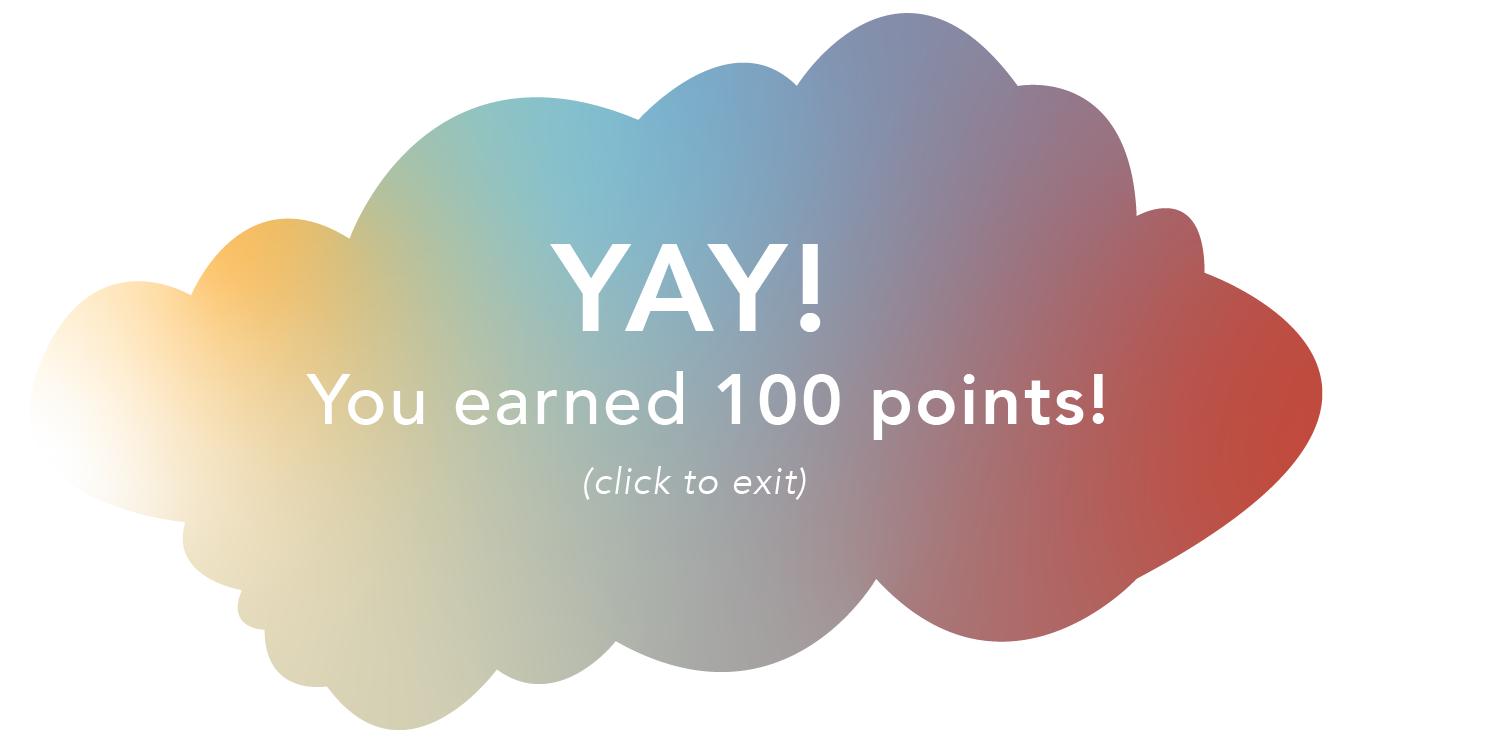
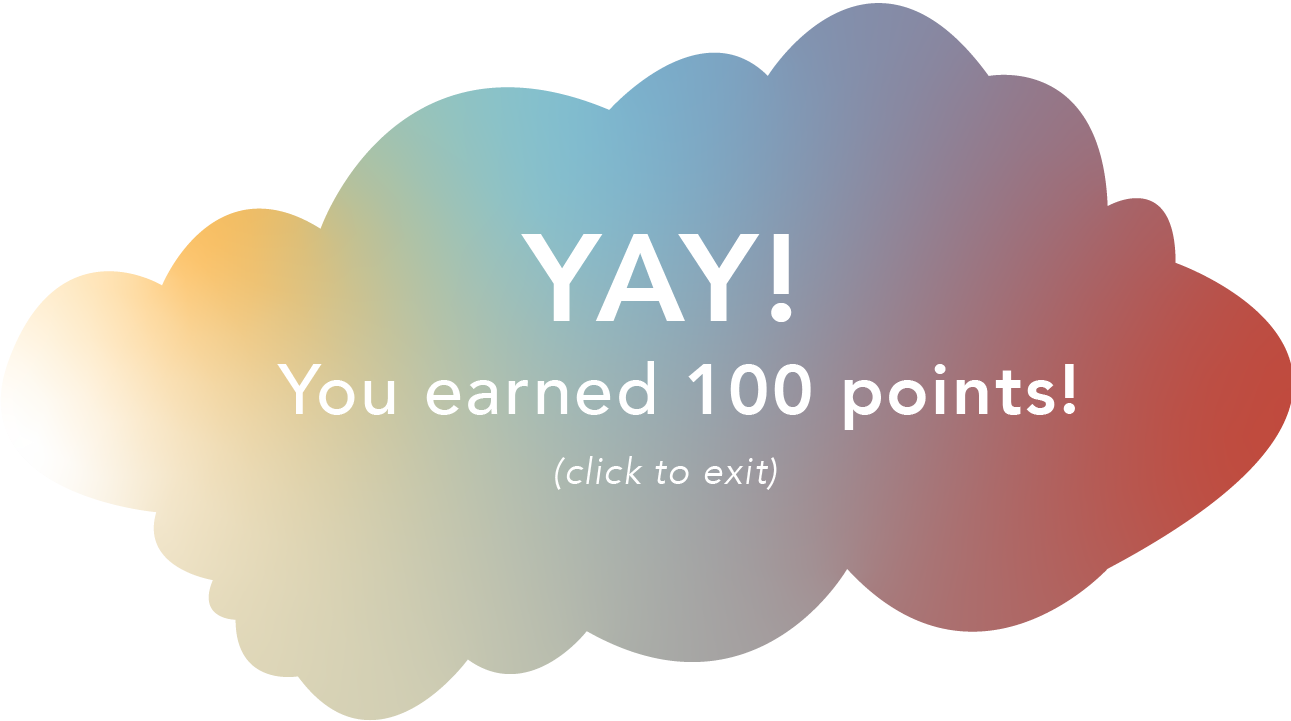
pseudo-fixed popup
still not happy with implementation, display inline i get messups with trying to center the image.

diff --git a/connect.html b/connect.html
@@ -18,8 +18,8 @@
     </div>
 
     <div class="user-container" id= "forumContain">
-
       <div class="hello">Welcome to the forum!</div>
+      <img class="points" id="commentPoints" src="assets/alert_popup 2.png" onclick="hidePopup()">
       <textarea id = "forumNewText" placeholder= "Type your comments here!" ></textarea>
       <input type="submit" value="Submit" onclick="submitText()"></input>
       <div id = "comments">

diff --git a/css/positivity.css b/css/positivity.css
@@ -279,6 +279,12 @@ input[type=submit]:hover {
   background-color: #CB5932;
 }
 
+.points{
+  display:none;
+  padding-left: 30%;
+  height: 40%;
+}
+
 /* Responsive layout - when the screen is less than 650px wide, make the two columns stack on top of each other instead of next to each other */
 @media screen and (max-width: 650px) {
   .col {

diff --git a/javascript/pos.js b/javascript/pos.js
@@ -4,7 +4,12 @@ function goBack(){
 }
 
 function pointEarned(){
-  alert("YAY! You earned 100 points!");
+  //alert("YAY! You earned 100 points!");
+  document.getElementById("commentPoints").style.display="inline-block";
+}
+
+function hidePopup(){
+  document.getElementById("commentPoints").style.display="none";
 }
 
 function submitText(){
